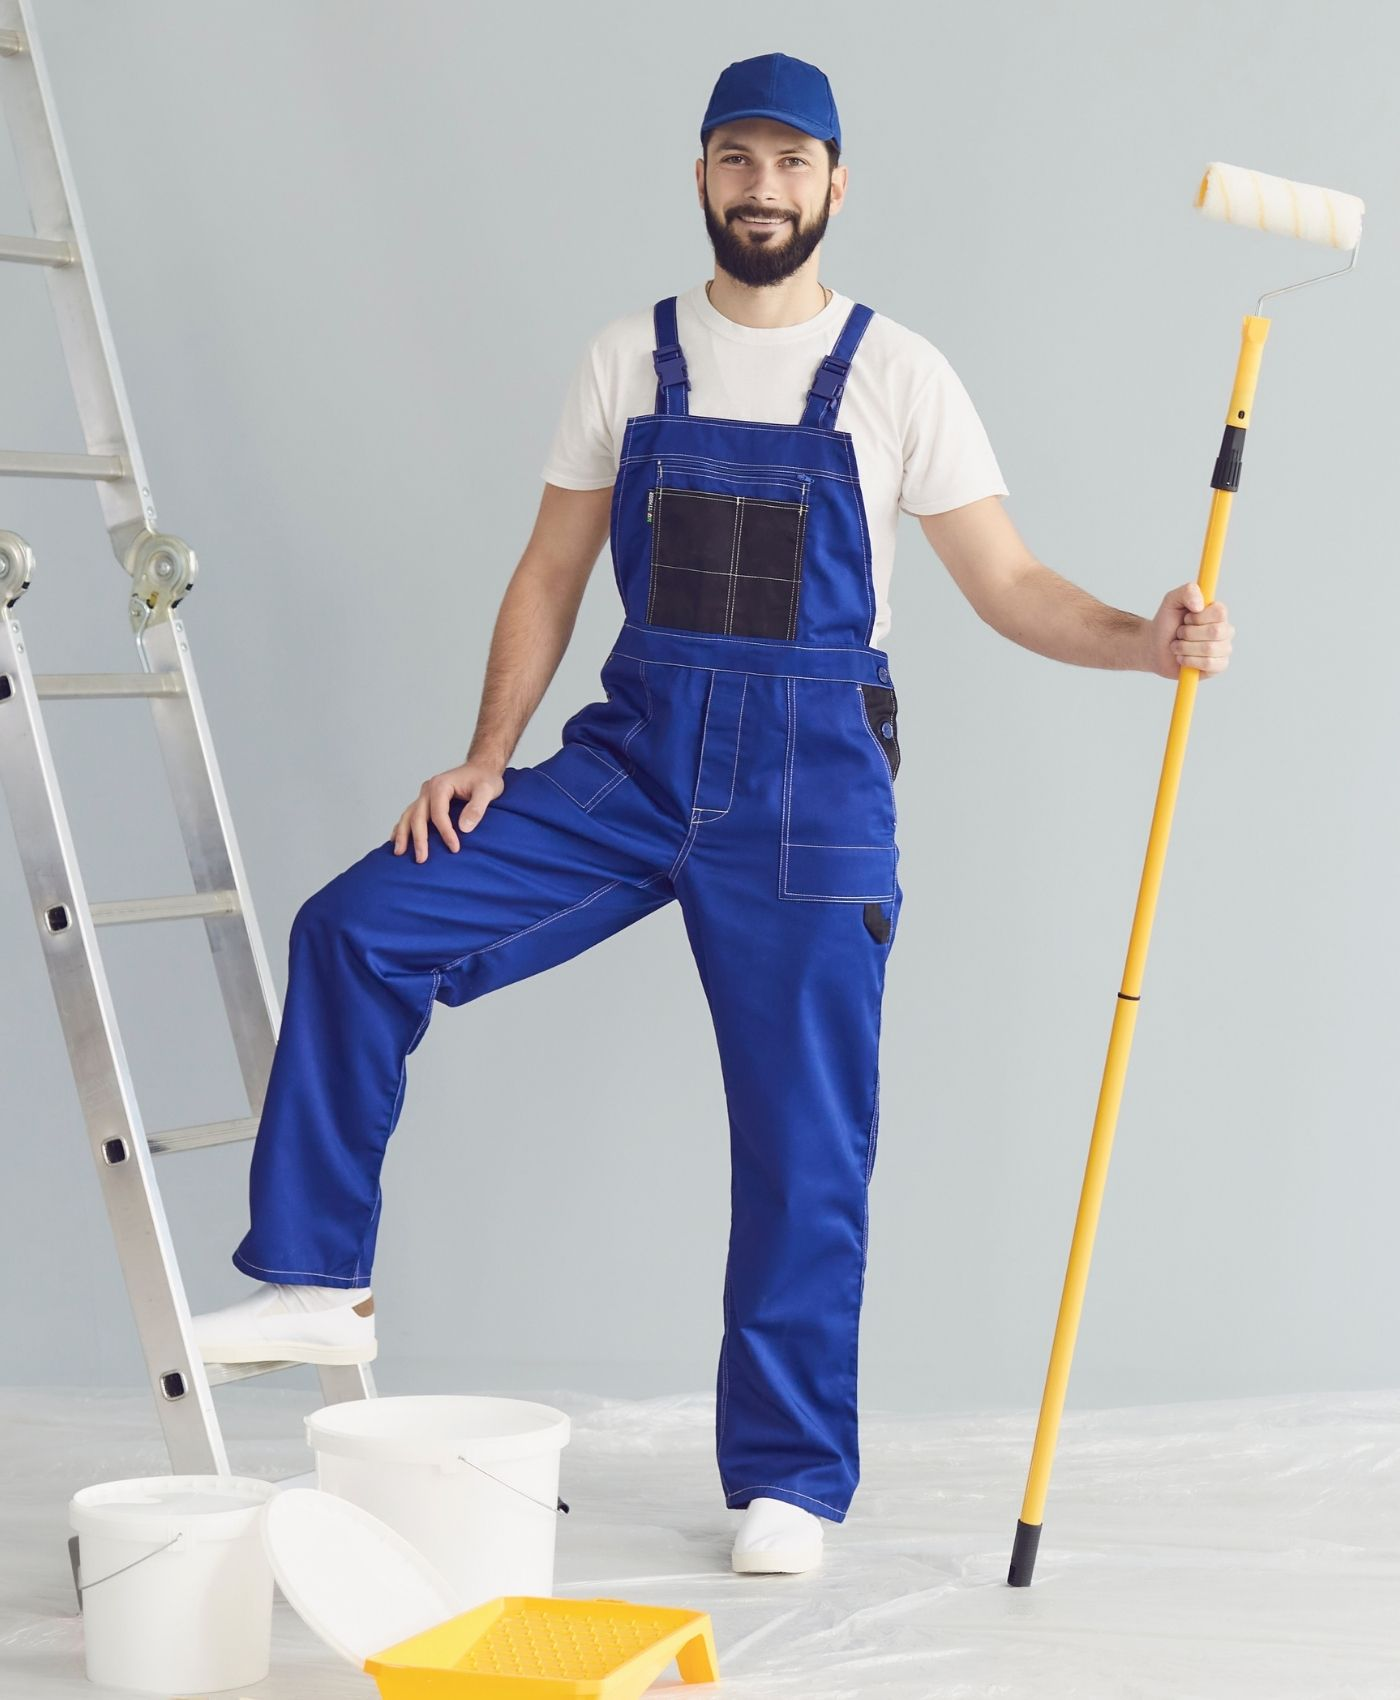
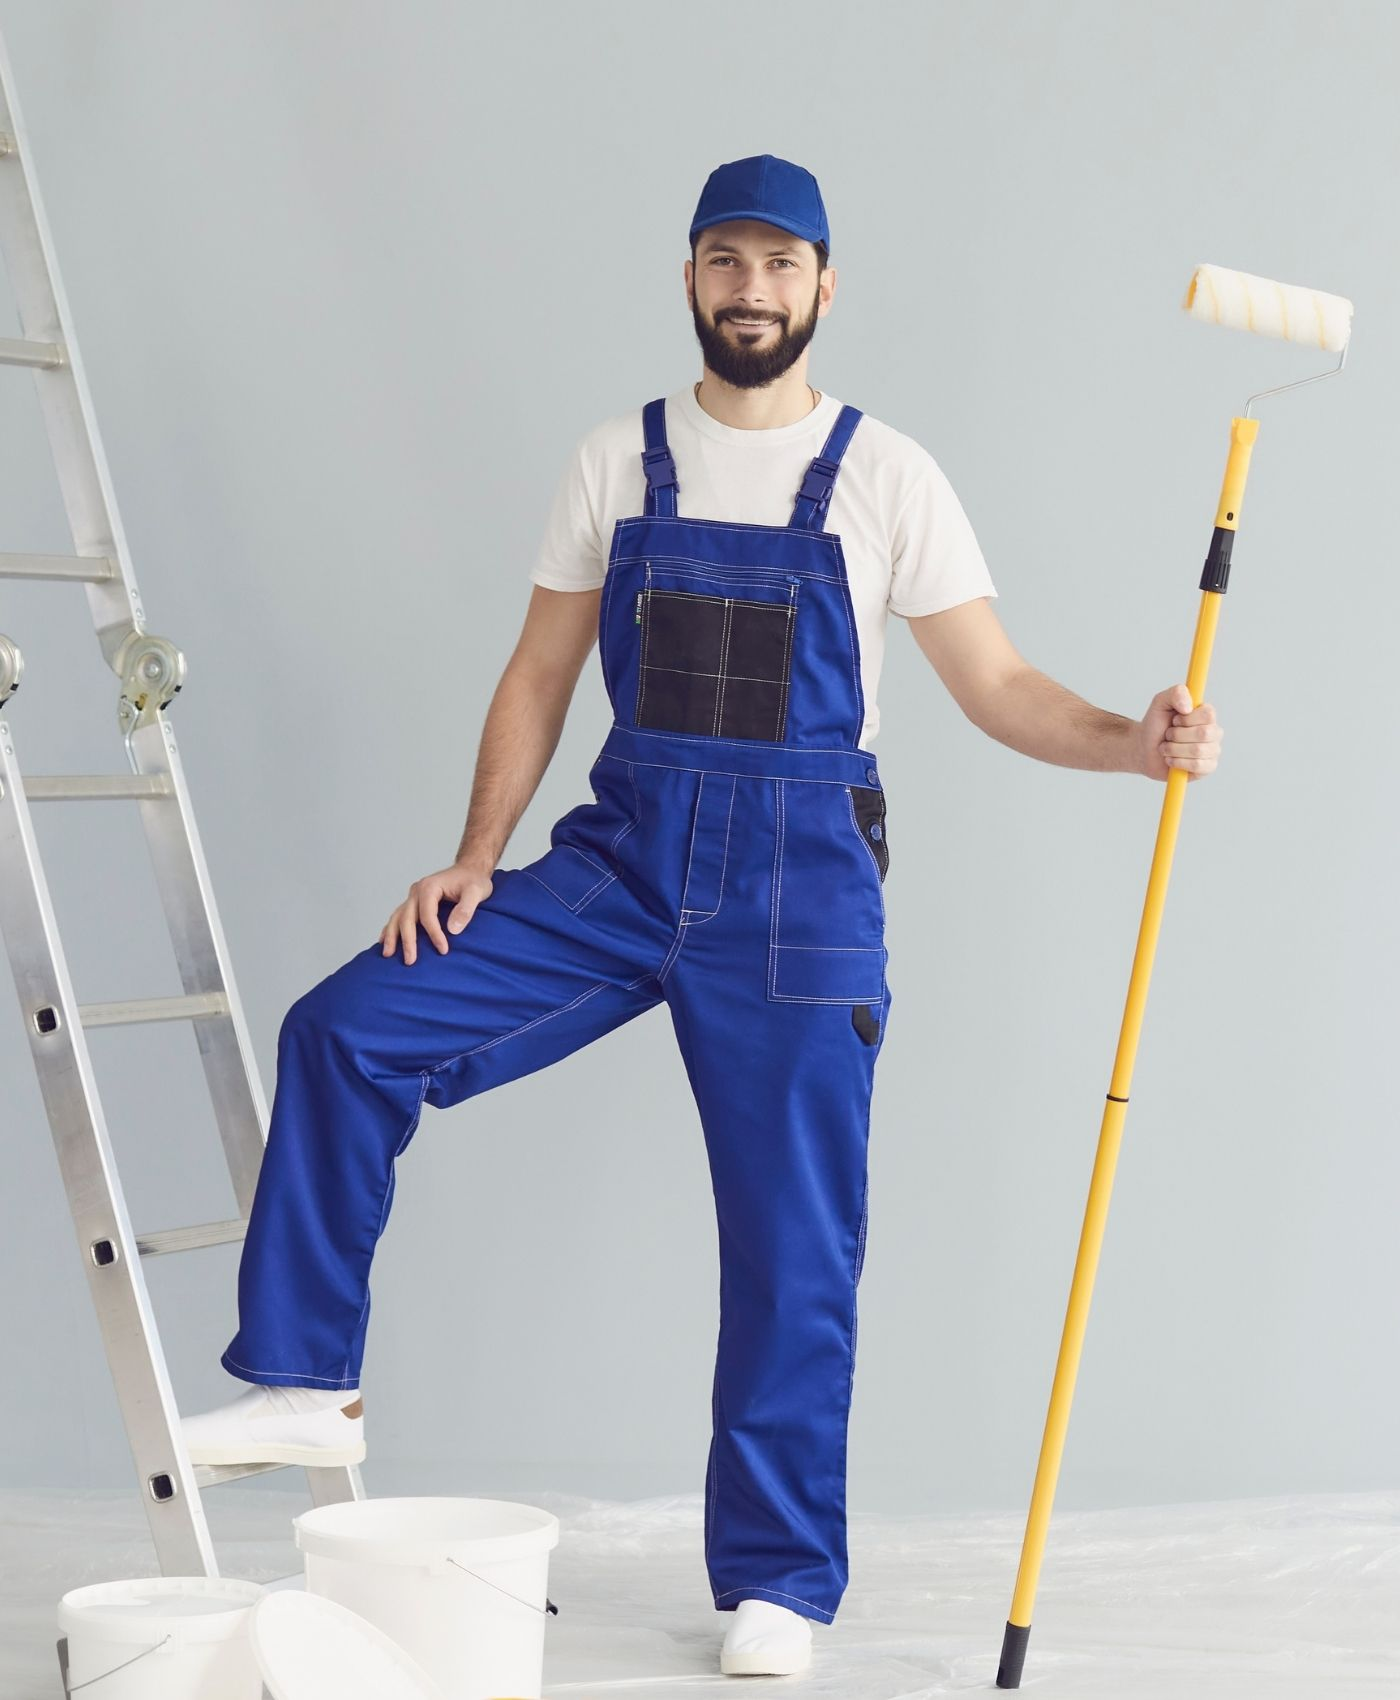
sectoren,  home, contact, werkwijze, scan, arbeidsongevallen toegevoegd; structuur uitgebouwd

Changed region(s): [[0.0, 0.0, 0.9829, 1.0], [0.5836, 0.9976, 0.6143, 1.0]]

diff --git a/BOLT-TO-ASTRO-MIGRATION-GUIDE.md b/BOLT-TO-ASTRO-MIGRATION-GUIDE.md
@@ -1,0 +1,272 @@
+# Bolt → Astro migratiegids
+
+> Read this file before converting any Bolt React/TSX page to an Astro page.
+> Place this in your project root and reference it in every new conversation.
+
+---
+
+## Why we are migrating
+
+The original Assurmanbouw website was built in Bolt.new as a React/Vite SPA.
+This created a critical SEO problem: search engines could not index any page.
+
+**The mechanism:**
+
+When a search engine crawler visits a page from the original Bolt build, the
+HTML response contains essentially this:
+
+```html
+<body>
+  <div id="root"></div>
+  <script type="module" src="/src/main.tsx"></script>
+</body>
+```
+
+All visible content (headings, paragraphs, buttons, lists, images) only
+appears in the DOM after JavaScript executes in a browser. Crawlers that do
+not run JavaScript see nothing. Crawlers that do run JavaScript (Googlebot)
+see content only on a second-pass crawl, and intermittent failures mean
+pages may never get fully indexed.
+
+**Consequences in the original Bolt site:**
+
+- Pages did not appear in Google Search Console after weeks
+- View-source on any URL showed an empty `<div id="root">`
+- Direct URL access on static hosts returned 404 for any deep route
+- Meta tags, canonical URLs, and structured data were identical on every page
+
+We migrated to Astro because Astro renders content as real HTML on the
+server. Every page is a static HTML file at build time with all text,
+headings, links, and structured data present in the source.
+
+---
+
+## What "Astro done correctly" means
+
+A correctly built Astro page in this project meets all of these:
+
+1. Open the built page in browser DevTools → View Source
+2. Every heading, paragraph, FAQ question and answer, card title, list
+   item, and link is visible in raw HTML
+3. Images have real `<img>` tags with alt text in the source
+4. Meta title, description, and canonical URL are unique per page and
+   present in the `<head>` before any JavaScript runs
+5. Structured data (JSON-LD) is in the source as a `<script type="application/ld+json">` block
+6. Only small `<script>` tags exist for genuinely interactive components
+7. No giant React island wrapping the entire page
+
+---
+
+## The trap to avoid
+
+When converting a Bolt TSX file to Astro, the easiest path is to wrap the
+entire page in a single `client:load` React island. This compiles, looks
+correct in the browser, and feels efficient — but it reproduces the exact
+problem we are solving. The page becomes a React SPA inside an Astro shell.
+Google sees an empty container again.
+
+**This is forbidden.** Any single React island that contains the bulk of a
+page's text content is a regression to the Bolt failure mode.
+
+---
+
+## Correct island architecture
+
+For every Bolt TSX page being converted, split the work as follows:
+
+**Static Astro HTML (default — most of the page):**
+- Hero section text, image, buttons
+- All section headings (H2, H3)
+- All paragraphs and body copy
+- All card titles, descriptions, and bullet lists
+- All FAQ questions AND answers (the answers stay in the DOM, only the
+  show/hide is JavaScript)
+- All accordion panel content (same rule — content in DOM, toggle is JS)
+- All tab panel content (all tabs in DOM, only visibility switches)
+- All carousel slide content (all slides in DOM, slide position is JS)
+- Footer, navigation links, partner logos
+- All images and brand decorative elements
+- Structured data JSON-LD blocks
+
+**Vanilla JS `<script>` (preferred for simple interactivity):**
+- Scroll progress bars
+- Sticky nav show/hide based on scroll position
+- Show/hide toggles (examples lists, accordions)
+- Tab switching (toggle CSS display between pre-rendered panels)
+- Active section tracking (scroll spy)
+- Any logic that only needs `document.querySelector` and `addEventListener`
+
+**React island (only when genuinely needed):**
+- Components with complex multi-state interactions that share refs
+- Components requiring resize listeners with derived state
+- Carousels with responsive visible-count logic
+- Components with React-specific dependencies (lucide-react icons in
+  interactive contexts, recharts, etc.)
+
+When in doubt: use vanilla JS. Islands are the exception, not the default.
+
+---
+
+## Conversion workflow
+
+When asked to convert a Bolt TSX page to Astro:
+
+1. **Read the source TSX completely first.** Do not skim. Note every:
+   - Inline style object and its values
+   - className and CSS class definition
+   - Image path and positioning
+   - Brand arrow placement
+   - useState hook and what it controls
+   - useEffect hook and what it listens to
+
+2. **Inventory the interactive parts.** List every piece that needs
+   JavaScript. For each, decide: vanilla JS or React island? Default to
+   vanilla JS unless React is genuinely required.
+
+3. **Rebuild as Astro page** at the correct route in `src/pages/`.
+   - All static content as plain Astro markup
+   - All inline styles preserved exactly (same values, same units)
+   - All images referenced from `/public/` with same paths
+   - All brand arrows in same positions
+   - SEO tags via the BaseLayout slot
+
+4. **Extract islands** to `src/components/islands/` only where needed.
+   Pass static content as props or children — do not duplicate text
+   inside the island.
+
+5. **Add vanilla JS** for simple interactivity inline in the Astro page
+   or as separate `<script>` blocks.
+
+6. **Verify after build:**
+   ```
+   npm run build
+   ```
+   Open `dist/[route]/index.html` in a text editor. Confirm:
+   - All text content is visible as plain HTML
+   - All FAQ questions AND answers are in the source
+   - All card content is in the source
+   - Only small script tags exist for islands
+   - HTML file size is reasonable (not 5KB shell)
+
+7. **Verify visually:**
+   ```
+   npm run dev
+   ```
+   Open `http://localhost:4321/[route]`. Confirm pixel-perfect match
+   with the original Bolt design. No layout shifts. No hydration errors
+   in browser console.
+
+---
+
+## Pixel-perfect requirement
+
+The original Bolt design has been approved by the client. Visual changes
+are not permitted during migration. This means:
+
+- Same colors (use the design tokens in `src/styles/tokens.css`)
+- Same fonts (Outfit headings, Open Sans body, Plus Jakarta Sans steps)
+- Same spacing (padding, margin, gap values from TSX preserved exactly)
+- Same brand arrows in same positions with same dimensions
+- Same clip-path folded corners on cards (24px or 28px or 32px as in source)
+- Same image positions (especially hero images flush to right edge)
+- Same content verbatim (do not paraphrase, do not abbreviate, do not
+  invent alternative copy)
+
+If the source TSX uses `gridTemplateColumns: '340px 1fr'`, the Astro page
+must use the same. If the source uses `padding: '96px 32px'`, preserve it.
+Inline styles in TSX translate directly to inline styles in Astro markup
+or matching values in component-scoped CSS.
+
+---
+
+## Mobile responsiveness
+
+The original Bolt build was desktop-first and broken on mobile. The Astro
+rebuild must fix mobile issues during conversion, not preserve them.
+
+Reference the homepage and `sectoren/dakwerkers.astro` for established
+mobile patterns. Multi-column grids must collapse appropriately:
+
+- 4 columns desktop → 2 columns tablet → 1 column mobile
+- 3 columns desktop → 1 column mobile (or stay 2 if cards are small)
+- 5 columns desktop → 2 columns tablet → 1 column mobile
+- Hero images reposition or scale on narrow viewports
+- Carousels show 1 card on mobile, 2 on tablet, 3 on desktop
+
+Test breakpoints: 375px, 768px, 1024px, 1280px.
+
+---
+
+## Common pitfalls and how to avoid them
+
+**Pitfall: hydration errors from inline `<style>` tags inside React islands**
+React 18 hoists `<style>` to `<head>` on the client but Astro renders
+them inline during SSR. The mismatch breaks hydration. Move all CSS to
+`global.css` or a component-scoped `<style>` in the Astro file. Never
+include `<style>` JSX inside a React island component.
+
+**Pitfall: HTML-encoded apostrophes in inline styles**
+String values containing `'` get encoded to `&#x27;` server-side but
+stay as `'` client-side. Use double quotes inside style strings, or
+move CSS to a stylesheet.
+
+**Pitfall: window or document references in island components**
+Server has no window. Wrap browser-only code in `useEffect` or guard
+with `typeof window !== 'undefined'`. Or use `client:only="react"`
+when SSR adds no value.
+
+**Pitfall: invented content during conversion**
+The TSX source is the single source of truth. Do not paraphrase
+headings, do not summarize body copy, do not replace button labels.
+Copy text verbatim. If the source says "Doe de gratis scan →", the
+Astro version says exactly that.
+
+**Pitfall: skipping decorative elements**
+Brand arrows, photos with `position: absolute`, gradient overlays,
+and SVG waves are not optional. They are part of the approved design.
+Preserve every decorative element from the TSX.
+
+**Pitfall: forgetting structured data**
+Pages with FAQ sections need FAQPage JSON-LD. Pages about specific
+insurance products may need Service or Product schema. Check the TSX
+for any `<script type="application/ld+json">` blocks and preserve them
+in the Astro `<head>`.
+
+---
+
+## Reference files in this project
+
+When converting a new page, study these for established patterns:
+
+- `src/pages/index.astro` — homepage with hero, sections, mobile patterns
+- `src/pages/sectoren/dakwerkers.astro` — sector page template (most
+  complete)
+- `src/pages/verzekeringen/arbeidsongevallen.astro` — insurance page
+  with sticky subnav, accordions, FAQ, carousel — correctly split into
+  islands
+- `src/styles/tokens.css` — brand colors and typography tokens
+- `src/styles/global.css` — global styles and shared CSS rules
+- `src/layouts/BaseLayout.astro` — SEO head tags, fonts, navigation
+- `src/components/islands/` — existing islands to reuse where possible
+- `src/data/partners.ts` — partner data for PartnerSlider
+
+---
+
+## Final checklist before declaring a page done
+
+Before reporting a converted page as complete:
+
+- [ ] `npm run build` passes with zero errors
+- [ ] View-source on the built HTML shows all text content as plain HTML
+- [ ] No giant React island containing static content
+- [ ] Browser console on the live page shows no hydration errors
+- [ ] All headings, paragraphs, lists are visible without JavaScript
+- [ ] FAQ questions AND answers are in the page source
+- [ ] Pixel-perfect visual match with the original Bolt page
+- [ ] Mobile layout works at 375px, 768px, 1024px, 1280px
+- [ ] Sticky elements behave correctly during scroll
+- [ ] All interactive elements (toggles, carousels, accordions) work
+- [ ] Meta title, description, canonical are unique to this page
+- [ ] Structured data JSON-LD is present where applicable
+- [ ] Internal links to other pages use correct routes
+- [ ] No console errors or warnings
